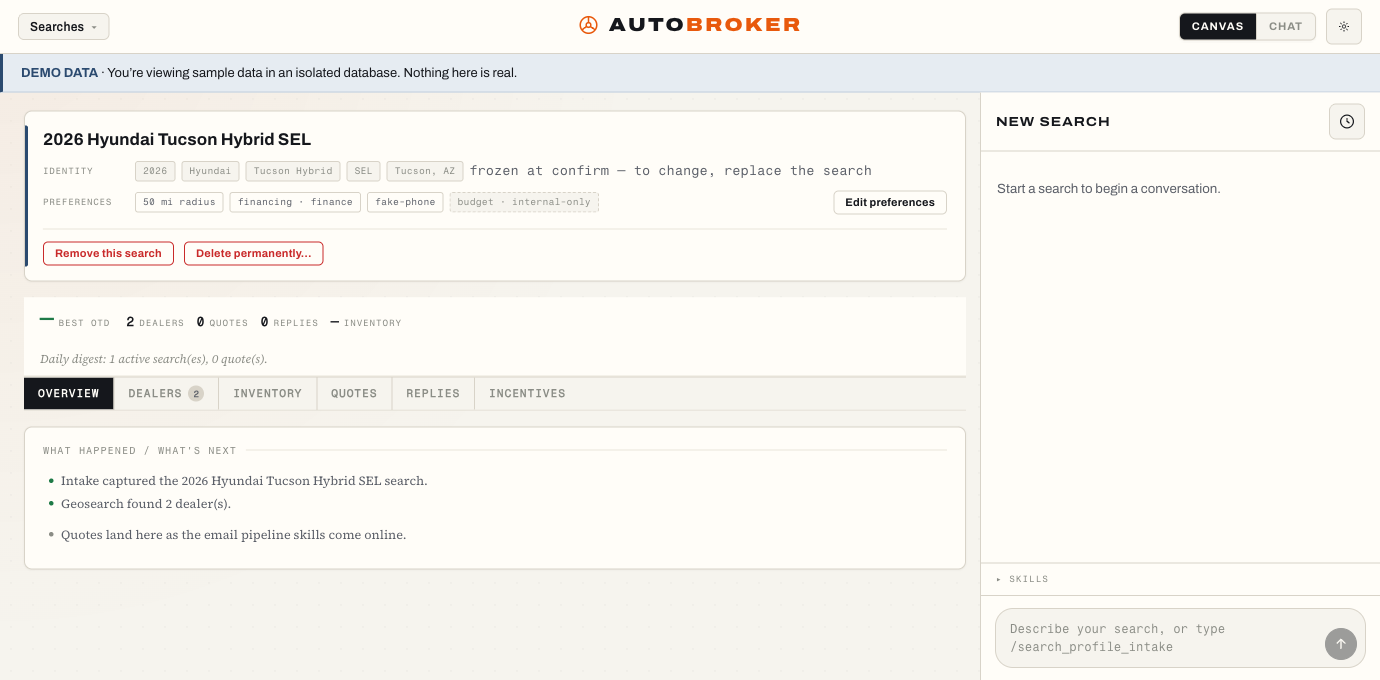
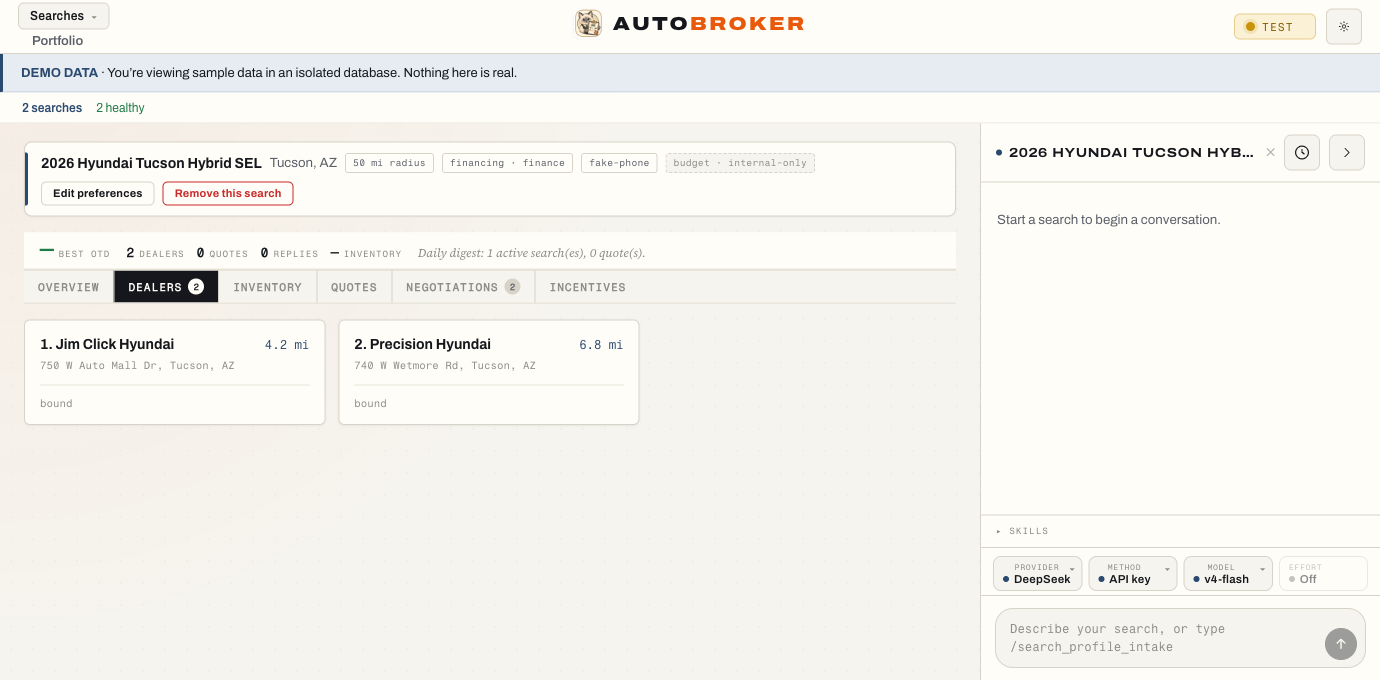
docs: fix stale "four API keys" comments + refresh the demo dashboard screenshot
Follow-ups to the doc-refresh commit:

- keyDefs.ts / routes.ts: "four" -> "five" managed keys/secrets (the fifth is the
  presence-only Claude subscription OAuth row / CLAUDE_CODE_OAUTH_TOKEN). Comment
  accuracy only — no behavior change.
- readme-assets/dashboard.png: re-captured on the current UI from the zero-config
  demo seed (Hyundai Tucson profile, Dealers tab with the two bound dealer tiles),
  replacing the 2026-06-21 shot that predated the workbench rebalance + minimizable
  chat rail. README caption updated to the current Canvas tabs (dealers, inventory,
  quotes, negotiations, incentives).

RUN_UI_FUNCTIONAL=1 green.sh GREEN.

diff --git a/apps/ui/src/settings/keyDefs.ts b/apps/ui/src/settings/keyDefs.ts
@@ -1,5 +1,5 @@
 /**
- * keyDefs — the static descriptor table for the four managed API keys. A
+ * keyDefs — the static descriptor table for the five managed API keys. A
  * hand-written map (matching the codebase's data-driven-but-explicit stance):
  * the Settings page renders one KeyRow per entry, in this fixed order. Each
  * descriptor carries the wire id, the human label, a one-line description, the
@@ -8,7 +8,8 @@
  *
  * REQUIREDNESS: deepseek is required (the default provider + the keystone that
  * gates first-run skill launch); google_places is required for dealer search.
- * anthropic + openai are optional switchable providers.
+ * anthropic + openai are optional switchable providers; claude_oauth is an
+ * optional presence-only row (a subscription token, no connection probe).
  *
  * Dependency wall: app/ui layer. Imports the wire ids only.
  */
@@ -33,7 +34,7 @@ export interface KeyDef {
   testKind: KeyTestKind;
 }
 
-/** The four rows, in the fixed display order (deepseek first — it is the
+/** The five rows, in the fixed display order (deepseek first — it is the
  *  keystone the first-run gate reads). */
 export const KEY_DEFS: readonly KeyDef[] = [
   {

diff --git a/apps/server/src/routes.ts b/apps/server/src/routes.ts
@@ -1286,7 +1286,8 @@ export function registerRoutes(app: FastifyInstance, deps: RouteDeps): void {
   });
 
   // ========================================================================
-  // settings/keys — the four user-supplied API keys. The route layer NEVER
+  // settings/keys — the five user-supplied secrets (four API keys + the Claude
+  // subscription OAuth token). The route layer NEVER
   // reads/writes the keys file or holds a secret; it delegates to the tools
   // secretsStore/probe. A key VALUE is never returned on any of these.
   // ========================================================================

diff --git a/README.md b/README.md
@@ -6,7 +6,7 @@ negotiate — driven by 18 skills (9 LLM-backed for extraction and drafting, 9
 deterministic for the load-bearing math and orchestration), with humans approving
 anything irreversible.
 
-![AutoBroker dashboard — the dual-pane workbench: a Canvas projection of one search (dealers, quotes, replies, inventory) beside a minimizable chat rail that drives the 18 skills.](readme-assets/dashboard.png)
+![AutoBroker dashboard — the dual-pane workbench: a Canvas projection of one search (dealers, inventory, quotes, negotiations, incentives) beside a minimizable chat rail that drives the 18 skills.](readme-assets/dashboard.png)
 
 > Shown with the built-in zero-config demo data (`AUTOBROKER_DEMO_SEED=1`) — no
 > API key, Gmail, or network required.
